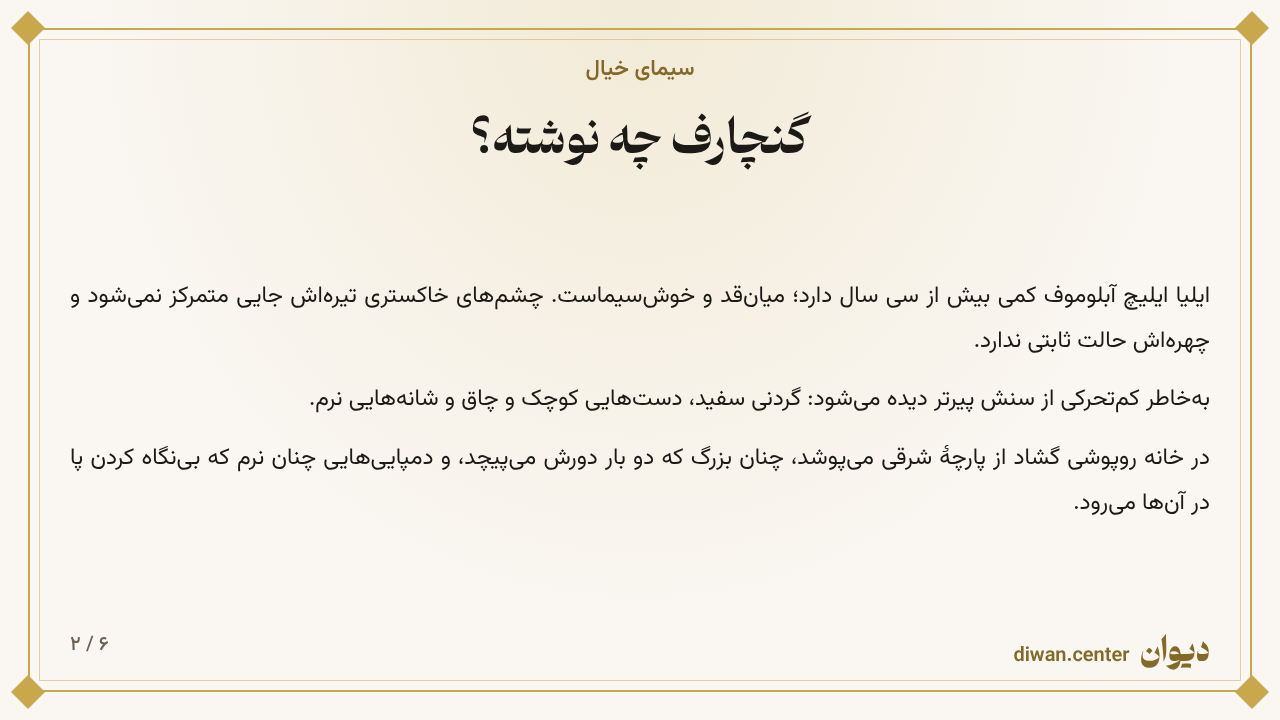
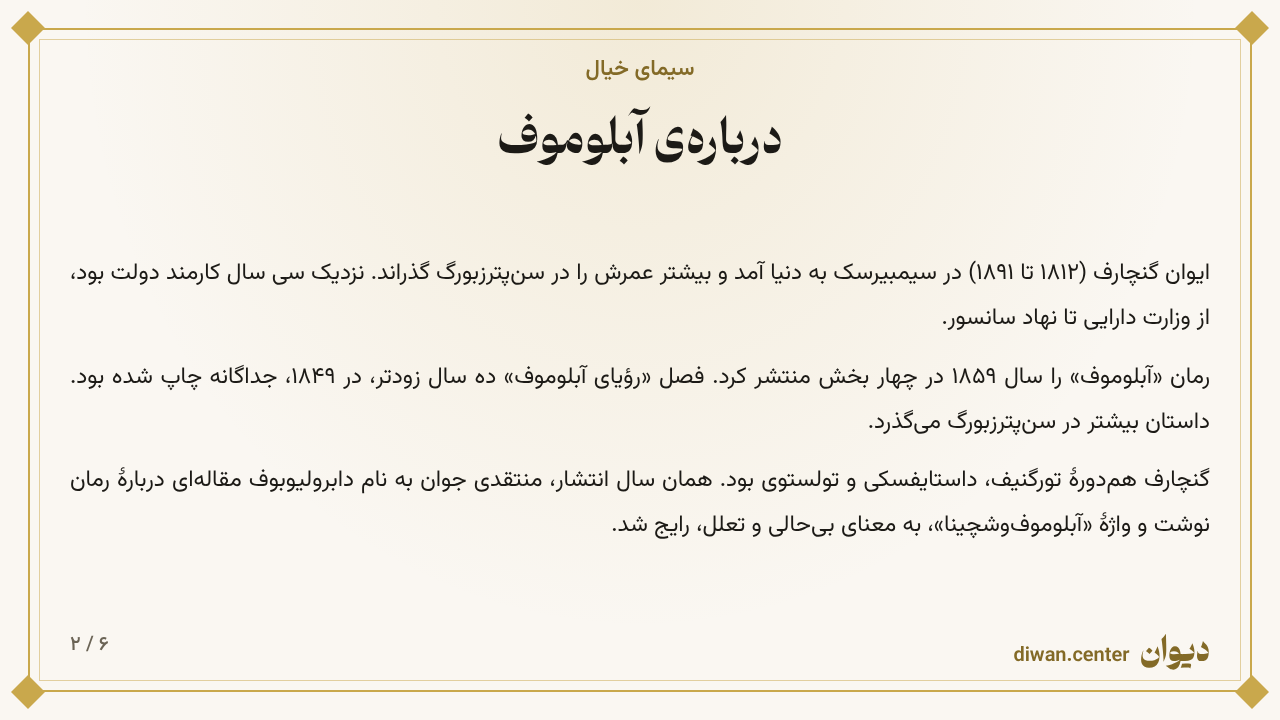
post22: slide 2 about the novel and author
Claude-Session: https://claude.ai/code/session_01KbXFhZ5gVHvAJQxmARukFF

Changed region(s): [[0.0625, 0.3667, 0.9688, 0.7639], [0.375, 0.1528, 0.6562, 0.2444]]

diff --git a/tools/simay/out/_s2_ig.html b/tools/simay/out/_s2_ig.html
@@ -33,4 +33,4 @@ h2{font-family:Doran,Vazirmatn,sans-serif;font-weight:800;font-size:var(--ft);te
 .bn{font-size:calc(var(--fb)*.85);color:#836a27;font-weight:600;text-align:center;border-top:1px solid #d7c88f;padding-top:.5em;text-wrap:balance}
 .foot{display:flex;justify-content:space-between;color:#836a27;font-weight:600;font-size:var(--ff)}
 .foot b{font-family:Doran,Vazirmatn,sans-serif;font-size:calc(var(--ff)*1.45)}.foot .pg{color:#6b6456;font-weight:500}
-</style></head><body><div class="slide ig" style="--W:1080px;--H:1350px;--m:44px;--pad:96px 100px 80px;--ft:68px;--fb:38px;--ff:27px;--ct:90px;--cs:32px;--ck:30px"><div class="frame"></div><div class="dia a"></div><div class="dia b"></div><div class="dia c"></div><div class="dia d"></div><div class="tx"><div class="kicker">سیمای خیال</div><h2>گنچارف چه نوشته؟</h2><div class="bl" style="--fb:38px"><div class="bp">ایلیا ایلیچ آبلوموف کمی بیش از سی سال دارد؛ میانقد و خوشسیماست. چشمهای خاکستری تیرهاش جایی متمرکز نمیشود و چهرهاش حالت ثابتی ندارد.</div><div class="bp">بهخاطر کمتحرکی از سنش پیرتر دیده میشود: گردنی سفید، دستهایی کوچک و چاق و شانههایی نرم.</div><div class="bp">در خانه روپوشی گشاد از پارچهٔ شرقی میپوشد، چنان بزرگ که دو بار دورش میپیچد، و دمپاییهایی چنان نرم که بینگاه کردن پا در آنها میرود.</div></div><div class="foot"><span><b>دیوان</b> &nbsp;<span class="lt">diwan.center</span></span><span class="pg" dir="ltr">۲ / ۶</span></div></div></div></body></html>
+</style></head><body><div class="slide ig" style="--W:1080px;--H:1350px;--m:44px;--pad:96px 100px 80px;--ft:68px;--fb:38px;--ff:27px;--ct:90px;--cs:32px;--ck:30px"><div class="frame"></div><div class="dia a"></div><div class="dia b"></div><div class="dia c"></div><div class="dia d"></div><div class="tx"><div class="kicker">سیمای خیال</div><h2>دربارهی آبلوموف</h2><div class="bl" style="--fb:38px"><div class="bp">ایوان گنچارف (۱۸۱۲ تا ۱۸۹۱) در سیمبیرسک به دنیا آمد و بیشتر عمرش را در سنپترزبورگ گذراند. نزدیک سی سال کارمند دولت بود، از وزارت دارایی تا نهاد سانسور.</div><div class="bp">رمان «آبلوموف» را سال ۱۸۵۹ در چهار بخش منتشر کرد. فصل «رؤیای آبلوموف» ده سال زودتر، در ۱۸۴۹، جداگانه چاپ شده بود. داستان بیشتر در سنپترزبورگ میگذرد.</div><div class="bp">گنچارف همدورهٔ تورگنیف، داستایفسکی و تولستوی بود. همان سال انتشار، منتقدی جوان به نام دابرولیوبوف مقالهای دربارهٔ رمان نوشت و واژهٔ «آبلوموفوشچینا»، به معنای بیحالی و تعلل، رایج شد.</div></div><div class="foot"><span><b>دیوان</b> &nbsp;<span class="lt">diwan.center</span></span><span class="pg" dir="ltr">۲ / ۶</span></div></div></div></body></html>

diff --git a/tools/simay/out/_s2_tg.html b/tools/simay/out/_s2_tg.html
@@ -33,4 +33,4 @@ h2{font-family:Doran,Vazirmatn,sans-serif;font-weight:800;font-size:var(--ft);te
 .bn{font-size:calc(var(--fb)*.85);color:#836a27;font-weight:600;text-align:center;border-top:1px solid #d7c88f;padding-top:.5em;text-wrap:balance}
 .foot{display:flex;justify-content:space-between;color:#836a27;font-weight:600;font-size:var(--ff)}
 .foot b{font-family:Doran,Vazirmatn,sans-serif;font-size:calc(var(--ff)*1.45)}.foot .pg{color:#6b6456;font-weight:500}
-</style></head><body><div class="slide tg" style="--W:1280px;--H:720px;--m:28px;--pad:52px 70px 42px;--ft:44px;--fb:25px;--ff:20px;--ct:64px;--cs:26px;--ck:24px"><div class="frame"></div><div class="dia a"></div><div class="dia b"></div><div class="dia c"></div><div class="dia d"></div><div class="tx"><div class="kicker">سیمای خیال</div><h2>گنچارف چه نوشته؟</h2><div class="bl" style="--fb:23px"><div class="bp">ایلیا ایلیچ آبلوموف کمی بیش از سی سال دارد؛ میانقد و خوشسیماست. چشمهای خاکستری تیرهاش جایی متمرکز نمیشود و چهرهاش حالت ثابتی ندارد.</div><div class="bp">بهخاطر کمتحرکی از سنش پیرتر دیده میشود: گردنی سفید، دستهایی کوچک و چاق و شانههایی نرم.</div><div class="bp">در خانه روپوشی گشاد از پارچهٔ شرقی میپوشد، چنان بزرگ که دو بار دورش میپیچد، و دمپاییهایی چنان نرم که بینگاه کردن پا در آنها میرود.</div></div><div class="foot"><span><b>دیوان</b> &nbsp;<span class="lt">diwan.center</span></span><span class="pg" dir="ltr">۲ / ۶</span></div></div></div></body></html>
+</style></head><body><div class="slide tg" style="--W:1280px;--H:720px;--m:28px;--pad:52px 70px 42px;--ft:44px;--fb:25px;--ff:20px;--ct:64px;--cs:26px;--ck:24px"><div class="frame"></div><div class="dia a"></div><div class="dia b"></div><div class="dia c"></div><div class="dia d"></div><div class="tx"><div class="kicker">سیمای خیال</div><h2>دربارهی آبلوموف</h2><div class="bl" style="--fb:23px"><div class="bp">ایوان گنچارف (۱۸۱۲ تا ۱۸۹۱) در سیمبیرسک به دنیا آمد و بیشتر عمرش را در سنپترزبورگ گذراند. نزدیک سی سال کارمند دولت بود، از وزارت دارایی تا نهاد سانسور.</div><div class="bp">رمان «آبلوموف» را سال ۱۸۵۹ در چهار بخش منتشر کرد. فصل «رؤیای آبلوموف» ده سال زودتر، در ۱۸۴۹، جداگانه چاپ شده بود. داستان بیشتر در سنپترزبورگ میگذرد.</div><div class="bp">گنچارف همدورهٔ تورگنیف، داستایفسکی و تولستوی بود. همان سال انتشار، منتقدی جوان به نام دابرولیوبوف مقالهای دربارهٔ رمان نوشت و واژهٔ «آبلوموفوشچینا»، به معنای بیحالی و تعلل، رایج شد.</div></div><div class="foot"><span><b>دیوان</b> &nbsp;<span class="lt">diwan.center</span></span><span class="pg" dir="ltr">۲ / ۶</span></div></div></div></body></html>

diff --git a/tools/simay/out/_s2_x.html b/tools/simay/out/_s2_x.html
@@ -33,4 +33,4 @@ h2{font-family:Doran,Vazirmatn,sans-serif;font-weight:800;font-size:var(--ft);te
 .bn{font-size:calc(var(--fb)*.85);color:#836a27;font-weight:600;text-align:center;border-top:1px solid #d7c88f;padding-top:.5em;text-wrap:balance}
 .foot{display:flex;justify-content:space-between;color:#836a27;font-weight:600;font-size:var(--ff)}
 .foot b{font-family:Doran,Vazirmatn,sans-serif;font-size:calc(var(--ff)*1.45)}.foot .pg{color:#6b6456;font-weight:500}
-</style></head><body><div class="slide x" style="--W:1600px;--H:900px;--m:32px;--pad:64px 90px 52px;--ft:54px;--fb:31px;--ff:23px;--ct:80px;--cs:31px;--ck:28px"><div class="frame"></div><div class="dia a"></div><div class="dia b"></div><div class="dia c"></div><div class="dia d"></div><div class="tx"><div class="kicker">سیمای خیال</div><h2>گنچارف چه نوشته؟</h2><div class="bl" style="--fb:29px"><div class="bp">ایلیا ایلیچ آبلوموف کمی بیش از سی سال دارد؛ میانقد و خوشسیماست. چشمهای خاکستری تیرهاش جایی متمرکز نمیشود و چهرهاش حالت ثابتی ندارد.</div><div class="bp">بهخاطر کمتحرکی از سنش پیرتر دیده میشود: گردنی سفید، دستهایی کوچک و چاق و شانههایی نرم.</div><div class="bp">در خانه روپوشی گشاد از پارچهٔ شرقی میپوشد، چنان بزرگ که دو بار دورش میپیچد، و دمپاییهایی چنان نرم که بینگاه کردن پا در آنها میرود.</div></div><div class="foot"><span><b>دیوان</b> &nbsp;<span class="lt">diwan.center</span></span><span class="pg" dir="ltr">۲ / ۶</span></div></div></div></body></html>
+</style></head><body><div class="slide x" style="--W:1600px;--H:900px;--m:32px;--pad:64px 90px 52px;--ft:54px;--fb:31px;--ff:23px;--ct:80px;--cs:31px;--ck:28px"><div class="frame"></div><div class="dia a"></div><div class="dia b"></div><div class="dia c"></div><div class="dia d"></div><div class="tx"><div class="kicker">سیمای خیال</div><h2>دربارهی آبلوموف</h2><div class="bl" style="--fb:29px"><div class="bp">ایوان گنچارف (۱۸۱۲ تا ۱۸۹۱) در سیمبیرسک به دنیا آمد و بیشتر عمرش را در سنپترزبورگ گذراند. نزدیک سی سال کارمند دولت بود، از وزارت دارایی تا نهاد سانسور.</div><div class="bp">رمان «آبلوموف» را سال ۱۸۵۹ در چهار بخش منتشر کرد. فصل «رؤیای آبلوموف» ده سال زودتر، در ۱۸۴۹، جداگانه چاپ شده بود. داستان بیشتر در سنپترزبورگ میگذرد.</div><div class="bp">گنچارف همدورهٔ تورگنیف، داستایفسکی و تولستوی بود. همان سال انتشار، منتقدی جوان به نام دابرولیوبوف مقالهای دربارهٔ رمان نوشت و واژهٔ «آبلوموفوشچینا»، به معنای بیحالی و تعلل، رایج شد.</div></div><div class="foot"><span><b>دیوان</b> &nbsp;<span class="lt">diwan.center</span></span><span class="pg" dir="ltr">۲ / ۶</span></div></div></div></body></html>

diff --git a/tools/simay/build.py b/tools/simay/build.py
@@ -7,10 +7,10 @@ KICK='سیمای خیال'
 TAG='تصویر ساختهشده با هوش مصنوعی'
 S=[
  dict(k='img',art='assets/oblomov_in.png',kick=True,title='آبلوموف',sub='از رمان «آبلوموف»، ایوان گنچارف'),
- dict(k='text',title='گنچارف چه نوشته؟',paras=[
-  'ایلیا ایلیچ آبلوموف کمی بیش از سی سال دارد؛ میانقد و خوشسیماست. چشمهای خاکستری تیرهاش جایی متمرکز نمیشود و چهرهاش حالت ثابتی ندارد.',
-  'بهخاطر کمتحرکی از سنش پیرتر دیده میشود: گردنی سفید، دستهایی کوچک و چاق و شانههایی نرم.',
-  'در خانه روپوشی گشاد از پارچهٔ شرقی میپوشد، چنان بزرگ که دو بار دورش میپیچد، و دمپاییهایی چنان نرم که بینگاه کردن پا در آنها میرود.',
+ dict(k='text',title='دربارهی آبلوموف',paras=[
+  'ایوان گنچارف (۱۸۱۲ تا ۱۸۹۱) در سیمبیرسک به دنیا آمد و بیشتر عمرش را در سنپترزبورگ گذراند. نزدیک سی سال کارمند دولت بود، از وزارت دارایی تا نهاد سانسور.',
+  'رمان «آبلوموف» را سال ۱۸۵۹ در چهار بخش منتشر کرد. فصل «رؤیای آبلوموف» ده سال زودتر، در ۱۸۴۹، جداگانه چاپ شده بود. داستان بیشتر در سنپترزبورگ میگذرد.',
+  'گنچارف همدورهٔ تورگنیف، داستایفسکی و تولستوی بود. همان سال انتشار، منتقدی جوان به نام دابرولیوبوف مقالهای دربارهٔ رمان نوشت و واژهٔ «آبلوموفوشچینا»، به معنای بیحالی و تعلل، رایج شد.',
  ]),
  dict(k='img',art='assets/oblomov_out.png',title='ایلیا ایلیچ آبلوموف'),
  dict(k='img',art='assets/zakhar.png',title='زاخار'),
